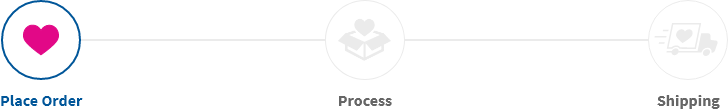
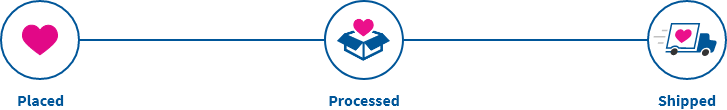
Fixed Email Image and Saving label and minor checkout UI issue

diff --git a/app_custom_bbw/cartridges/app_custom_bbw/cartridge/client/default/scss/checkout/checkout.scss b/app_custom_bbw/cartridges/app_custom_bbw/cartridge/client/default/scss/checkout/checkout.scss
@@ -86,11 +86,11 @@ footer {
 }
 
 .checkout-btn-row {
-    margin: 2.5rem 0;
+    margin: 1rem 0;
 
     @include media-up(md) {
         padding: 0 2%;
-        margin-top: 2.5rem;
+        margin-top: 0;
     }
 }
 
@@ -691,7 +691,9 @@ input[type="tel"],
 }
 
 .same-as-shipping-address {
-    margin-top: 30px;
+    @include media-down(md) {
+        margin-top: 30px;
+    }
 }
 
 .multi-shipping {
@@ -841,7 +843,7 @@ input[type="tel"],
 
     .giftcard-balance-section {
         border-bottom: 1px solid colour(black, 1);
-        min-height: 48px;
+        min-height: 35px;
 
         #egift-card-check-balance {
             text-decoration: underline;
@@ -1060,7 +1062,7 @@ input[type="tel"],
 }
 
 .verify-msg {
-    margin: 30px 0 20px;
+    margin: 16px 0;
     line-height: 16px;
     letter-spacing: 0.2px;
 }
